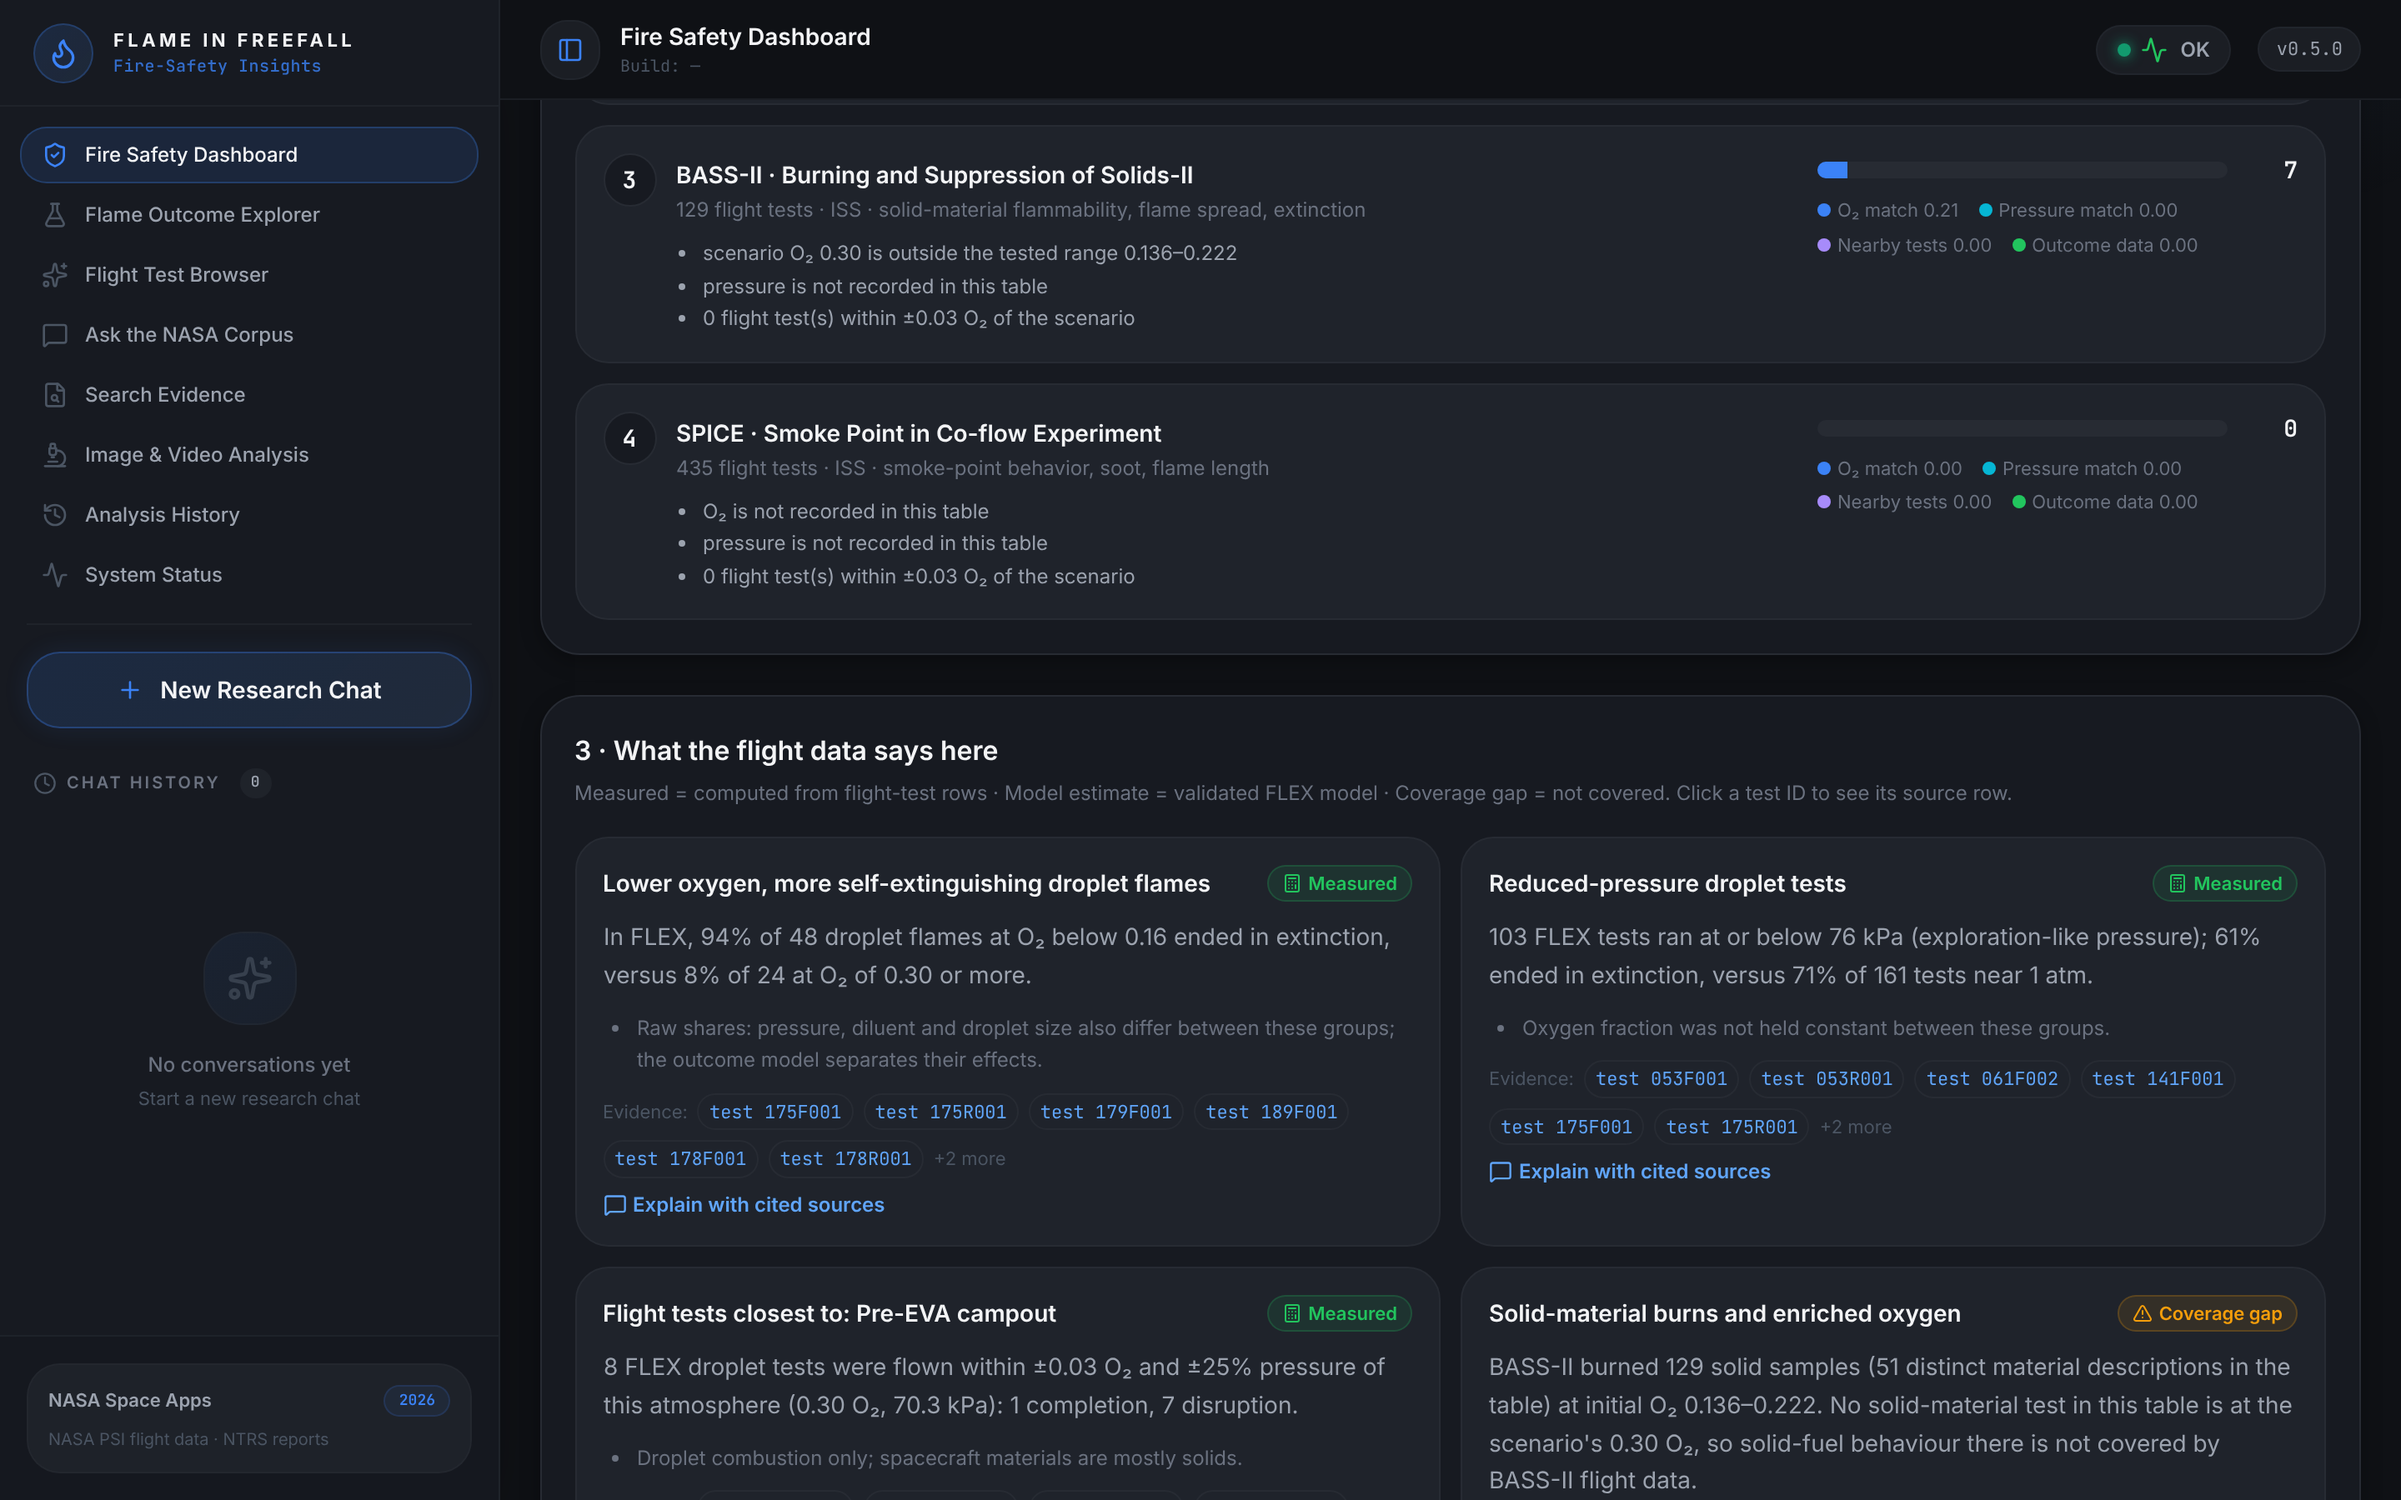
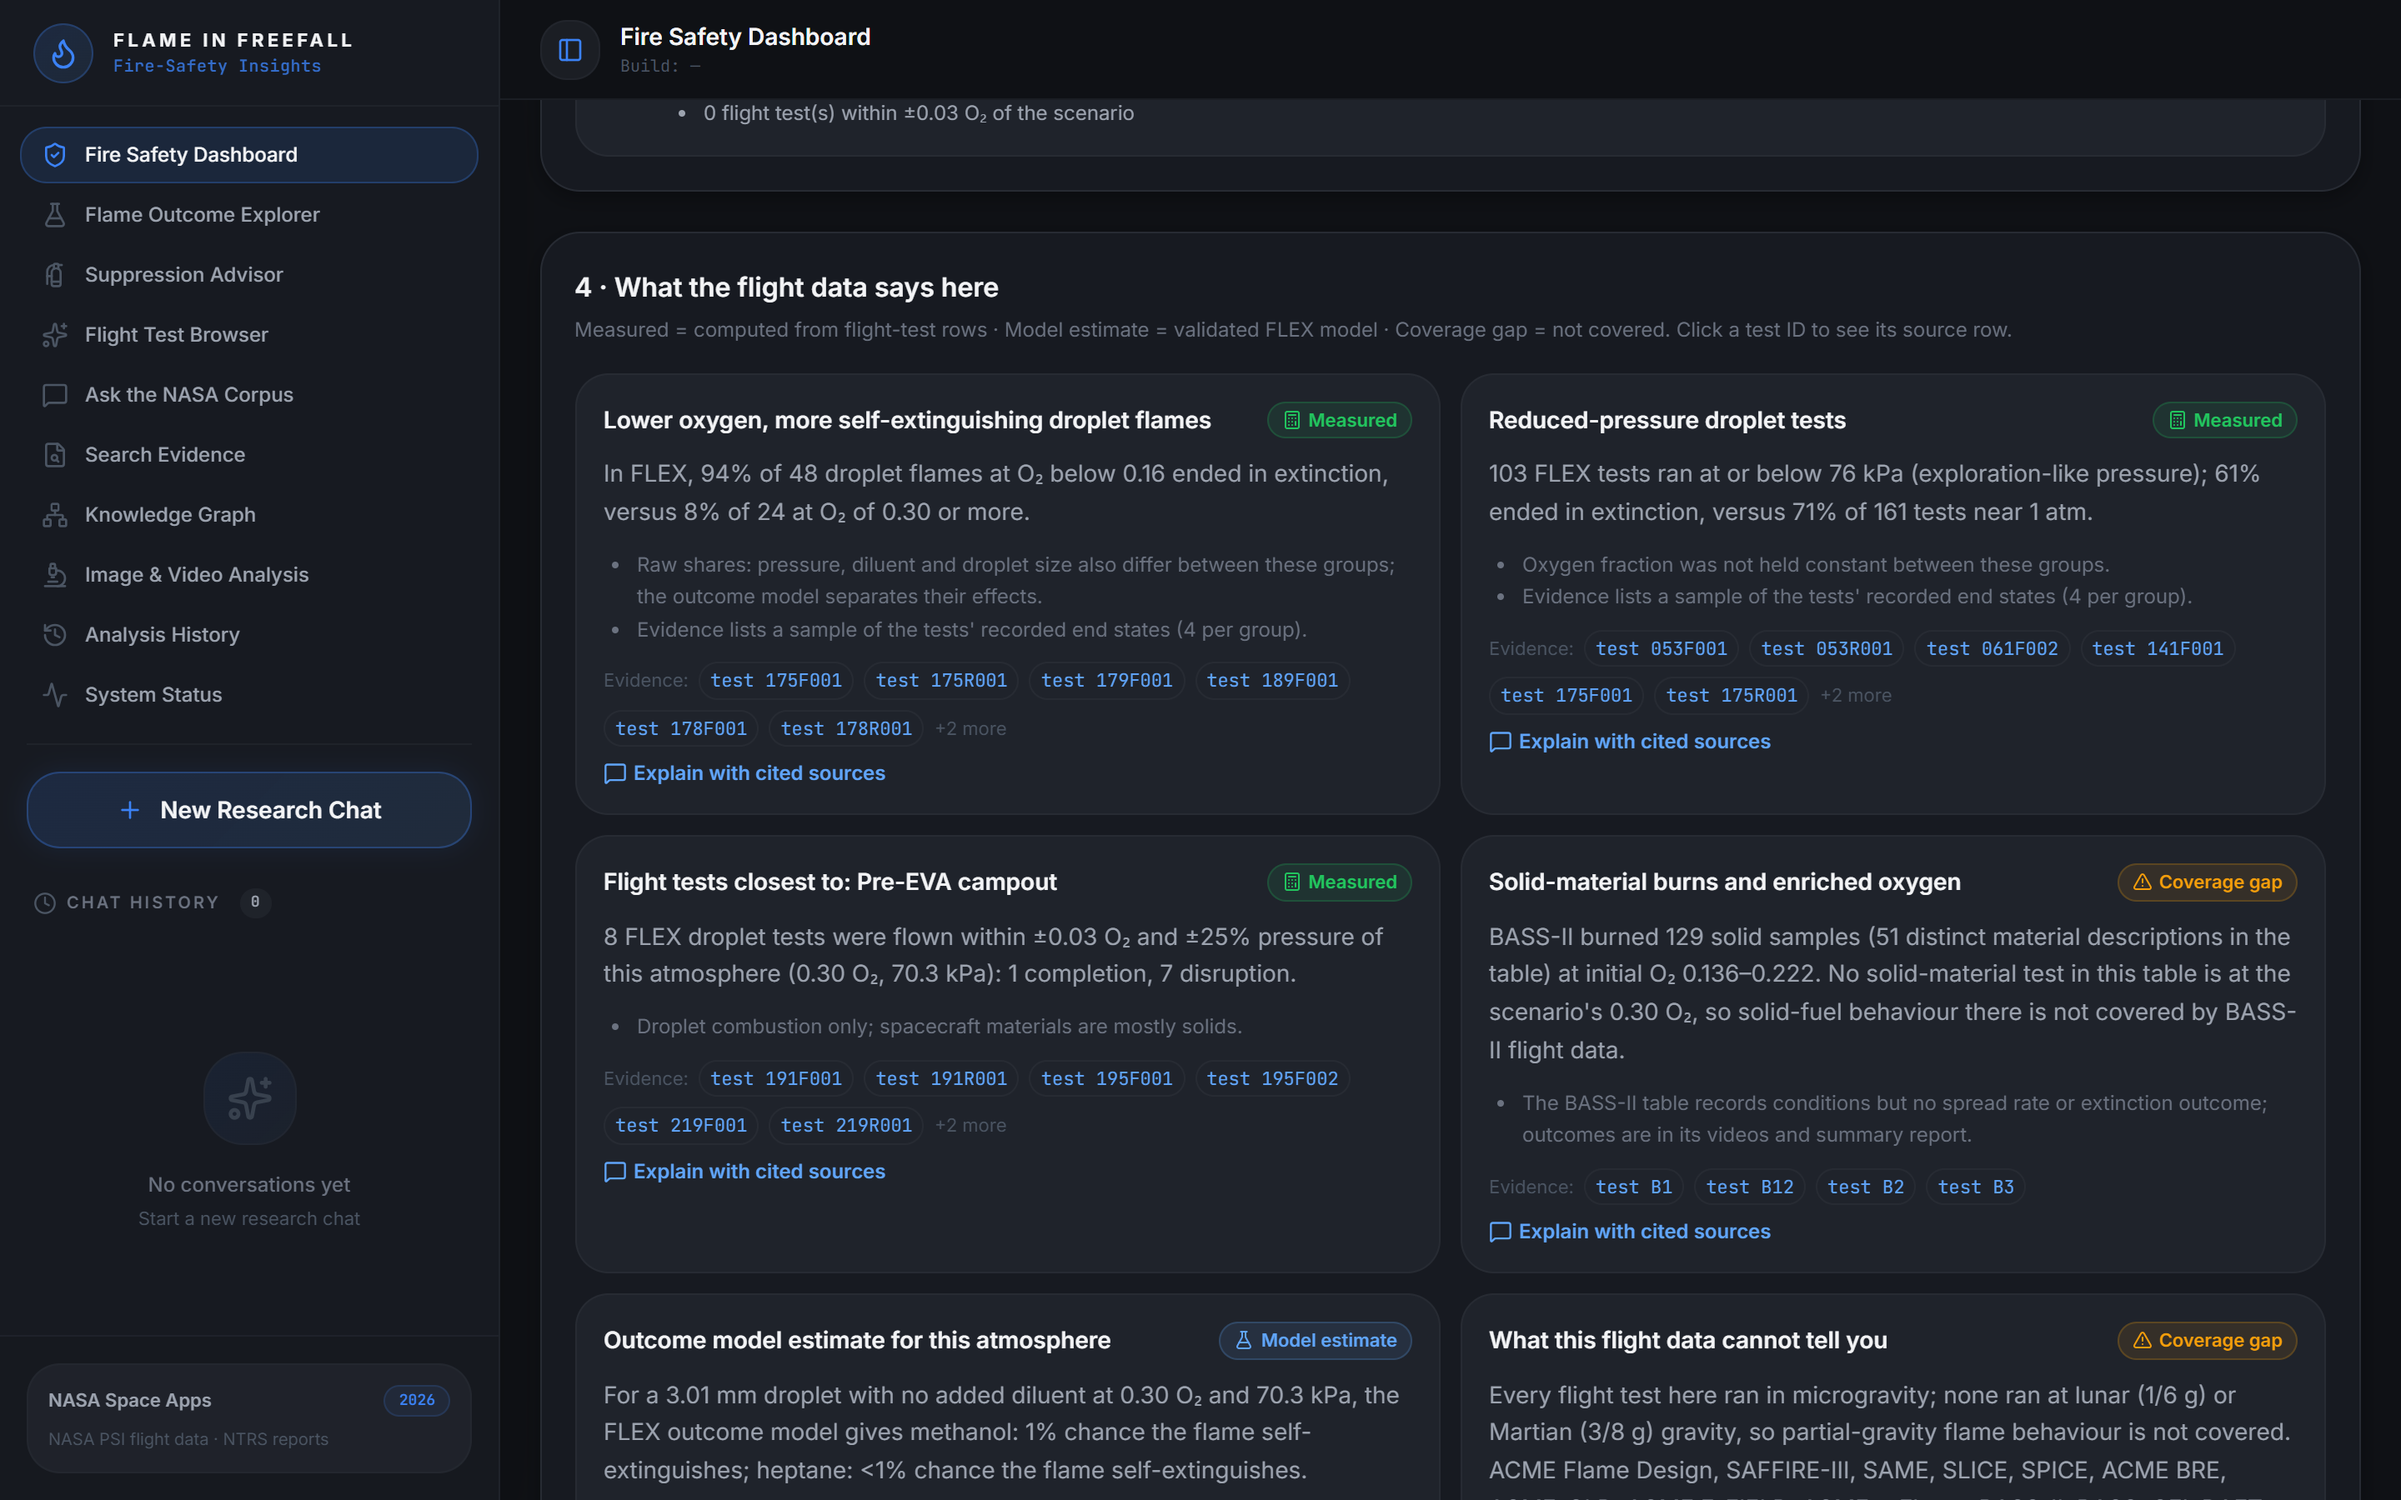
Retake the ranking, insights and outcome-explorer screenshots
The three FINAL_CHALLENGE_PRESENTATION screenshots still showed the
4-table data (840 tests, 4 of 6 investigations). Retaken at 1440x900, 2x,
from a local production build over the committed data (19 PSI tables,
24 ISA-Tab records, 27 NTRS reports): 1,950 tests, 19 of 19, 51 documents.
The ranking shot now scrolls to "Ranked investigations", since the
coverage section sits above it. The capture stack had no Postgres,
object storage or cache, so the top bar's health badge is hidden rather
than shown as unhealthy; the limitations note says so. Also: the chat
covers 24 investigation records, not 4.

diff --git a/FINAL_CHALLENGE_PRESENTATION.md b/FINAL_CHALLENGE_PRESENTATION.md
@@ -31,7 +31,7 @@ NASA has flown decades of combustion experiments (BASS, FLEX, Saffire, SPICE, AC
 3. **Summarize.** Each investigation's objective, hypothesis, approach and impact appear in NASA's own words, from the PSI ISA-Tab metadata, with a source link.
 4. **Explain.** The dashboard states what the flight tests measured there; every number comes with the IDs of the NASA table cells it came from. It also states **what the data cannot tell you**.
 5. **Estimate.** A validated model estimates whether a droplet flame would self-extinguish, and shows the most similar real ISS tests next to it. It **refuses** outside the conditions NASA actually flew.
-6. **Ask.** A chat answers questions over 27 NASA reports and 4 investigation records. Answers may only cite retrieved evidence; without a language model, the chat shows that evidence directly.
+6. **Ask.** A chat answers questions over 27 NASA reports and 24 investigation records. Answers may only cite retrieved evidence; without a language model, the chat shows that evidence directly.
 7. **Connect.** A knowledge graph links investigations, tests, fuels, conditions and outcomes, every link citing the NASA cell it came from. Example: which fuels did the tests that ended in extinction burn? In the web app's Knowledge Graph page, through the API, and as two AURA agent tools.
 
 ![Computed, cited insights for the pre-EVA atmosphere](docs/presentations/screenshots/2-insights.png)
@@ -100,7 +100,7 @@ NASA PSI tables + ISA-Tab metadata + NTRS reports + flight video
 - **Limitations:**
   - outcomes are modelled for droplets only;
   - no partial-gravity data exists here;
-  - the Apollo 1 screenshot was retaken with the 19-investigation data (1950 tests); the ranking, insights and outcome-explorer screenshots were taken with the 4-table data (840 tests) and still need a retake;
+  - the screenshots were taken on a local capture stack (in-memory database, no object storage or cache), so the top bar's health badge is hidden in them;
   - the gold set and labels need expert review.
 - **Next:**
   - parse BASS-II spread and extinction from flight video with the CV pipeline;
